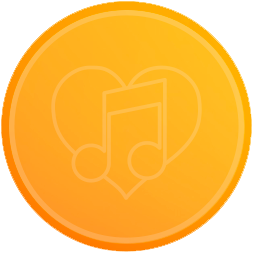
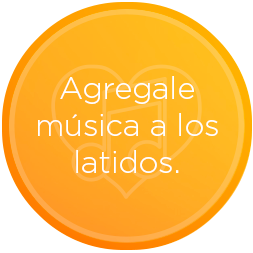
1

diff --git a/index.html b/index.html
@@ -64,7 +64,7 @@
                     <a href="javascript:;" data-transition="none" id="escuchar_latidos"><img src="images/latido.png" height="100%" /></a>
                     <p><span></span>Escuchá el latido</p>
                     
-                    <a href="javascript:;" data-transition="none" id="escuchar_latidoMusica"><img src="images/latido_musica.png" height="100%" /><span>Agregale <br />música a los <br />latidos.</span></a>
+                    <a href="javascript:;" data-transition="none" id="escuchar_latidoMusica"><img src="images/latido_musica.png" height="100%" /></a>
                     <p class="pb"><span></span>Escuchá el latido <br />con música</p>
                 </div><!--latidos-->
                 

diff --git a/js/functions.js b/js/functions.js
@@ -146,7 +146,6 @@ function page_events(){
     $( "#latidos" ).on( "pageshow", function( event, ui ) {
         if(LatidosData.latidosmp3 != '' && LatidosData.latidosmp3 != null){
             $('#escuchar_latidoMusica img').attr('src', 'images/latido_musica_active.png');
-            $('#escuchar_latidoMusica span').remove();
         }
     });
     
